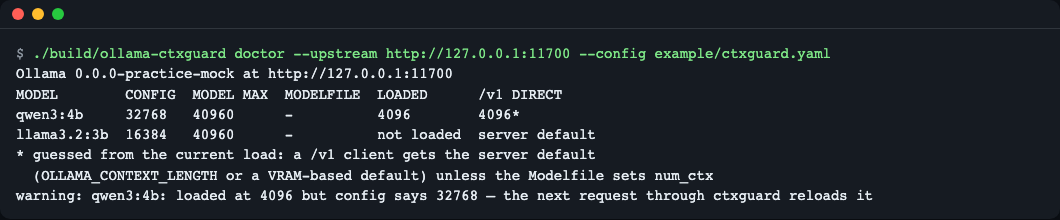
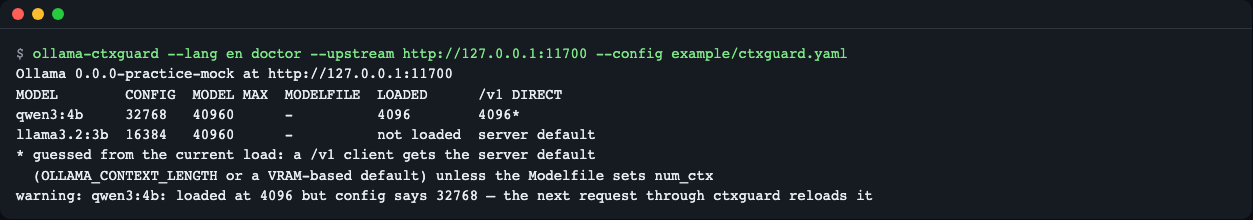
docs(readme): document screen language with per-language screenshots
Add language selection docs, Korean screenshots, a strict.yaml fix and
the 0.2.0 changelog entry. Scenario 3 now uses --log-format text.

diff --git a/README.ko.md b/README.ko.md
@@ -4,7 +4,7 @@
 
 Ollama 의 OpenAI 호환 주소(`/v1`)는 `num_ctx`(컨텍스트 창 크기)를 어디에 적어 보내도 무시하고, 프롬프트가 창보다 길면 앞부분을 **아무 표시 없이** 버립니다. `ollama-ctxguard` 는 앱과 Ollama 사이에 끼는 작은 프록시입니다. 앱 코드는 그대로 두고 `base_url` 만 바꾸면 모델별 `num_ctx` 가 실제로 적용되고, 잘림이 의심되면 응답마다 표시됩니다.
 
-![데모 실행 화면: /v1 직접 호출은 비밀 코드를 잃고, ctxguard 를 거치면 답한다](docs/images/01-hero.png)
+![데모 실행 화면: /v1 직접 호출은 비밀 코드를 잃고, ctxguard 를 거치면 답한다](docs/images/01-hero.ko.png)
 *연습용 목(mock) 모드의 `demo` 출력. 같은 요청을 /v1 로 직접 보내면 4096 으로 올라가 앞부분이 잘리고, ctxguard 를 거치면 16384 로 올라가 답이 맞습니다.*
 
 ## 이런 분께
@@ -34,25 +34,27 @@ dart compile exe bin/ollama_ctxguard.dart -o build/ollama-ctxguard
 가짜 Ollama 를 프로세스 안에 띄워 문제와 해결을 한 번에 보여 주는 `demo` 입니다. **연습용 목(mock) 모드**라서 실제 모델은 쓰지 않고 네트워크도 필요 없습니다.
 
 ```bash
-./build/ollama-ctxguard demo
+./build/ollama-ctxguard --lang ko demo
 ```
+
+`LANG` 이 `ko_*` 이면 `--lang` 없이도 한국어로 나옵니다. 아래 화면과 같게 보려면 `--lang ko` 로 고정하세요.
 
 ```text
-ollama-ctxguard demo — practice mock: a fake Ollama runs in this process, no real model is used
-prompt: 35495 bytes, "SECRET-CODE is 7731" at the very start; config: "qwen3:*": 16384
+ollama-ctxguard 데모 — 연습용 목 모드: 가짜 Ollama 가 이 프로세스 안에서 돌며 실제 모델은 쓰지 않습니다
+프롬프트: 35495 바이트, 맨 앞에 "SECRET-CODE is 7731"; 설정: "qwen3:*": 16384
 
-direct /v1    : num_ctx=4096 prompt_tokens=2050 verdict=truncated  answer: I don't see a secret code
-via ctxguard  : num_ctx=16384 prompt_tokens=5520 verdict=ok  answer: 7731
+직접 /v1      : num_ctx=4096 prompt_tokens=2050 verdict=truncated  답변: I don't see a secret code
+ctxguard 경유  : num_ctx=16384 prompt_tokens=5520 verdict=ok  답변: 7731
 
-what happened: /v1 ignored num_ctx, loaded the model at 4096 and silently kept only
-2050 prompt tokens (about half of 4096), so the code at the start was lost.
-ctxguard sent the same request to /api/chat with options.num_ctx=16384.
+무슨 일이 있었나: /v1 은 num_ctx 를 무시하고 모델을 4096 으로 로드했으며, 조용히
+프롬프트 토큰 2050 개만 남겼습니다 (4096 의 절반 정도). 그래서 맨 앞의 코드가 사라졌습니다.
+ctxguard 는 같은 요청을 options.num_ctx=16384 로 /api/chat 에 보냈습니다.
 
-proxy log line (no prompt text is logged):
-  {"ts":"2026-11-10T20:09:31.722969Z","method":"POST","path":"/v1/chat/completions","model":"qwen3:4b","stream":false,"status":200,"num_ctx":16384,"num_ctx_source":"config","prompt_tokens":5520,"est_prompt_tokens":5915,"verdict":"ok","ms":1}
+프록시 로그 한 줄 (프롬프트 본문은 기록하지 않습니다):
+  {"ts":"2026-11-12T15:21:29.267897Z","method":"POST","path":"/v1/chat/completions","model":"qwen3:4b","stream":false,"status":200,"num_ctx":16384,"num_ctx_source":"config","prompt_tokens":5520,"est_prompt_tokens":5915,"verdict":"ok","ms":2}
 ```
 
-(맨 아래 로그 줄의 `ts` 시각은 실행할 때마다 다릅니다.)
+(맨 아래 로그 줄의 `ts` 시각은 실행할 때마다 다릅니다. 이 로그 줄과 답변 문장은 번역되지 않고 영어 그대로 나옵니다. 화면 언어는 [화면 언어](#화면-언어-영어--한국어) 절을 보세요.)
 
 읽는 법: 앞부분에 "SECRET-CODE is 7731" 을 넣은 긴 프롬프트를 두 방법으로 보냈습니다. `/v1` 로 직접 보내면 모델이 4096 창으로 올라가 프롬프트를 절반쯤(2050 토큰)만 남겼고 답은 코드를 모릅니다. ctxguard 를 거치면 같은 요청이 네이티브 `/api/chat` 에 `options.num_ctx=16384` 로 전달되어 코드를 읽습니다. 목은 실제 Ollama 가 보인 동작(4096 에서 prompt_tokens 2050)을 규칙으로 재현한 것이고, 실제 모드는 모델 로드 때문에 첫 요청이 수십 초 걸릴 수 있습니다.
 
@@ -87,6 +89,21 @@ const client = new OpenAI({ baseURL: "http://127.0.0.1:11435/v1", apiKey: "ollam
 | `mock-upstream` | 연습용 가짜 Ollama 서버를 띄웁니다 | `ollama-ctxguard mock-upstream --port 11700` |
 
 `serve` 옵션: `--config`(기본 `./ctxguard.yaml`), `--upstream`, `--listen`, `--strict`, `--log-format json|text`, `--log-file`. 종료 코드는 0 정상, 2 설정 오류·업스트림 연결 실패, 64 인자 오류입니다.
+
+### 화면 언어 (영어 / 한국어)
+
+도움말, `serve` 시작·경고 줄, `doctor` 표와 경고, `demo` 설명, `mock-upstream` 안내, 오류 메시지를 영어 또는 한국어로 볼 수 있습니다. 언어는 아래 순서로 정하며, 한국어가 아니면 영어입니다.
+
+1. `--lang en|ko` (명령 앞뒤 어디든)
+2. 환경변수 `OLLAMA_CTXGUARD_LANG`
+3. `LC_ALL`, 그다음 `LC_MESSAGES`, 그다음 `LANG` (`ko_KR.UTF-8` 처럼 `ko` 로 시작하면 한국어)
+
+```bash
+ollama-ctxguard --lang ko doctor
+OLLAMA_CTXGUARD_LANG=ko ollama-ctxguard demo
+```
+
+스크립트가 깨지지 않도록 아래는 일부러 영어 그대로 둡니다: `doctor --json`(`warnings` 포함), 접근 로그, 프록시의 HTTP 응답 본문·헤더, `--version` 출력, 종료 코드, 데모의 프롬프트와 원시 로그 줄. 현지화된 문장 안에 들어가는 일부 원문도 그대로 둡니다: OS 가 준 오류 원문(예: `오류: 대기할 수 없습니다 (주소: …)` 뒤의 `Failed to create server socket (Can't assign requested address)`), YAML 파서 상세(예: `Expected node content.`), 번역 규칙에 없는 인자 오류의 원문(`인자 오류:` 접두 뒤에 영어), 데모의 데이터 라벨(`num_ctx=`, `prompt_tokens=`, `verdict=`)과 모델 답변 문장. 사람용 문구를 스크립트에서 비교한다면 `--lang en` 또는 `OLLAMA_CTXGUARD_LANG=en` 으로 고정하세요.
 
 ### 시나리오 1 — 응답에서 판정 보기 (비스트리밍)
 
@@ -142,8 +159,8 @@ data: [DONE]
 `--strict` 를 주면 `truncated` 판정을 오류로 바꿉니다(비스트리밍 422, 스트리밍은 `[DONE]` 직전 `error` 청크). 아래는 `"qwen3:*": 4096` 설정(`--strict`, 프록시는 다른 포트 `11736`)으로 `lorem ` 을 6000번 반복한 프롬프트를 보낸 실제 응답입니다. 따라 하려면 mock 업스트림(`11700`)을 띄운 채 다음을 실행하세요.
 
 ```bash
-printf '"qwen3:*": 4096\n' > strict.yaml
-ollama-ctxguard serve --config strict.yaml --upstream http://127.0.0.1:11700 --listen 127.0.0.1:11736 --strict
+printf 'models:\n  "qwen3:*": 4096\n' > strict.yaml
+ollama-ctxguard serve --config strict.yaml --upstream http://127.0.0.1:11700 --listen 127.0.0.1:11736 --strict --log-format text
 # 다른 터미널에서
 python3 -c 'import json; print(json.dumps({"model":"qwen3:4b","messages":[{"role":"user","content":"lorem "*6000}]}))' > big.json
 curl -si http://127.0.0.1:11736/v1/chat/completions -H 'content-type: application/json' -d @big.json
@@ -168,30 +185,30 @@ X-Ctxguard-Est-Prompt-Tokens: 6000
 ### 시나리오 4 — `doctor` 로 현재 상태 확인
 
 ```bash
-ollama-ctxguard doctor --upstream http://127.0.0.1:11700 --config example/ctxguard.yaml
+ollama-ctxguard --lang ko doctor --upstream http://127.0.0.1:11700 --config example/ctxguard.yaml
 ```
 
-![doctor 표: 설정 32768, 현재 로드 4096 경고](docs/images/02-doctor.png)
+![doctor 표: 설정 32768, 현재 로드 4096 경고](docs/images/02-doctor.ko.png)
 *`doctor` 출력. 목에 /v1 로 한 번 직접 요청해 4096 으로 올라간 뒤의 모습입니다.*
 
-텍스트로 옮기면 다음과 같습니다(목, 같은 상황).
+텍스트로 옮기면 다음과 같습니다(목, 같은 상황, `--lang ko`).
 
 ```text
-Ollama 0.0.0-practice-mock at http://127.0.0.1:11700
-MODEL        CONFIG  MODEL MAX  MODELFILE  LOADED      /v1 DIRECT
-qwen3:4b     32768   40960      -          4096        4096*
-llama3.2:3b  16384   40960      -          not loaded  server default
-* guessed from the current load: a /v1 client gets the server default
-  (OLLAMA_CONTEXT_LENGTH or a VRAM-based default) unless the Modelfile sets num_ctx
-warning: qwen3:4b: loaded at 4096 but config says 32768 — the next request through ctxguard reloads it
+Ollama 0.0.0-practice-mock 접속 주소: http://127.0.0.1:11700
+모델         설정   모델 최대  MODELFILE  로드됨      /v1 직접
+qwen3:4b     32768  40960      -          4096        4096*
+llama3.2:3b  16384  40960      -          로드 안 됨  서버 기본값
+* 현재 로드 크기로 추정한 값입니다: /v1 클라이언트는 서버 기본값을 받습니다
+  (OLLAMA_CONTEXT_LENGTH 또는 VRAM 기반 기본값). 단 Modelfile 에 num_ctx 가 있으면 그 값입니다
+경고: qwen3:4b: 로드된 크기와 설정이 다릅니다 (로드: 4096, 설정: 32768). ctxguard 를 거치는 다음 요청에서 다시 로드됩니다
 ```
 
-- `/v1 DIRECT` 열은 "ctxguard 없이 /v1 로 붙으면 받을 크기"입니다. Ollama 에 서버 기본값을 알려 주는 API 가 없어서 Modelfile 에 `num_ctx` 가 없으면 **현재 로드된 크기에서 추정**하고 `*` 를 붙입니다. 틀릴 수 있습니다.
-- 마지막 `warning` 은 "설정은 32768 인데 지금은 4096 으로 올라가 있어, 다음 요청 때 모델이 다시 올라간다"는 뜻입니다.
+- `/v1 직접` 열은 "ctxguard 없이 /v1 로 붙으면 받을 크기"입니다. Ollama 에 서버 기본값을 알려 주는 API 가 없어서 Modelfile 에 `num_ctx` 가 없으면 **현재 로드된 크기에서 추정**하고 `*` 를 붙입니다. 틀릴 수 있습니다.
+- 마지막 `경고` 줄은 "설정은 32768 인데 지금은 4096 으로 올라가 있어, 다음 요청 때 모델이 다시 올라간다"는 뜻입니다.
 - Ollama 에 연결할 수 없으면 오류와 종료 코드 2 로 끝납니다.
 
 ```text
-error: cannot reach Ollama at http://127.0.0.1:1 (is it running? set --upstream)
+오류: Ollama 에 연결할 수 없습니다 (주소: http://127.0.0.1:1). 실행 중인지 확인하고 --upstream 을 지정하세요
 ```
 
 ### 접근 로그 읽기
@@ -199,18 +216,18 @@ error: cannot reach Ollama at http://127.0.0.1:1 (is it running? set --upstream)
 `serve` 는 요청당 한 줄을 stderr 에 씁니다(`--log-file` 로 파일, `--log-format text` 로 사람이 읽기 쉬운 형식). 프롬프트·응답 본문과 `Authorization` 은 기록하지 않고, 정해 둔 필드만 남깁니다. 아래는 위 시나리오에서 얻은 실제 로그입니다.
 
 ```text
-ollama-ctxguard 0.1.0 listening on http://127.0.0.1:11735 -> upstream http://127.0.0.1:11700 (2 model rules, strict=false)
+ollama-ctxguard 0.2.0 시작 — 주소: http://127.0.0.1:11735, 업스트림: http://127.0.0.1:11700 (모델 규칙 2개, strict=false)
 {"ts":"2026-11-10T20:09:33.777875Z","method":"POST","path":"/v1/chat/completions","model":"qwen3:4b","stream":false,"status":200,"num_ctx":32768,"num_ctx_source":"config","prompt_tokens":6,"est_prompt_tokens":1,"verdict":"ok","ms":1}
 {"ts":"2026-11-10T20:09:33.796980Z","method":"POST","path":"/v1/chat/completions","model":"qwen3:4b","stream":true,"status":200,"num_ctx":32768,"num_ctx_source":"config","prompt_tokens":6,"est_prompt_tokens":1,"verdict":"ok","ms":1}
 {"ts":"2026-11-10T20:09:33.840871Z","method":"POST","path":"/v1/chat/completions","status":403,"ms":0,"event":"host_not_allowed"}
 {"ts":"2026-11-10T20:09:33.851702Z","method":"POST","path":"/v1/chat/completions","model":"qwen3:4b","stream":false,"status":403,"est_prompt_tokens":0,"ms":0,"event":"origin_rejected"}
-shutting down
+종료합니다
 ```
 
 ```text
-ollama-ctxguard 0.1.0 listening on http://127.0.0.1:11736 -> upstream http://127.0.0.1:11700 (1 model rules, strict=true)
+ollama-ctxguard 0.2.0 시작 — 주소: http://127.0.0.1:11736, 업스트림: http://127.0.0.1:11700 (모델 규칙 1개, strict=true)
 2026-11-10T20:10:25.256384Z WARN method=POST path=/v1/chat/completions model=qwen3:4b stream=false status=422 num_ctx=4096 num_ctx_source=config prompt_tokens=2050 est_prompt_tokens=6000 verdict=truncated reason=context_shift_signature ms=4 event=ctx_warning
-shutting down
+종료합니다
 ```
 
 판정이 `ok` 가 아니면 `event=ctx_warning` 이 붙습니다. 그 밖의 `event` 는 `host_not_allowed`(허용되지 않은 Host, 403)와 `origin_rejected`(Ollama 가 브라우저 Origin 을 거부, 403)입니다. 두 경우 공격자가 보낸 Host·Origin 값은 로그에 쓰지 않습니다. 텍스트 형식에서 공백·`=`·따옴표가 든 값은 `model="x verdict=ok"` 처럼 따옴표로 감싸 가짜 필드가 생기지 않게 합니다.
@@ -289,16 +306,17 @@ flowchart LR
 
 | 증상 | 원인 | 해결 |
 |---|---|---|
-| `cannot listen on 127.0.0.1:11434 … try --port` (목) | 실제 Ollama 가 이미 11434 를 사용 중 | `mock-upstream --port 11700` 처럼 다른 포트 |
-| `error: cannot reach Ollama at …` (종료 코드 2) | Ollama 가 꺼져 있거나 `--upstream` 주소가 틀림 | Ollama 실행 확인, `--upstream` 지정 |
-| `error: cannot listen on 127.0.0.1:11435: port already in use …` | 다른 ctxguard 가 아직 떠 있거나 포트가 사용 중 | `--listen 127.0.0.1:<다른 포트>` |
+| `오류: 대기할 수 없습니다 (주소: 127.0.0.1:11434): 포트가 이미 사용 중입니다 …` (목, `--lang en`: `cannot listen on 127.0.0.1:11434 … try --port`) | 실제 Ollama 가 이미 11434 를 사용 중 | `mock-upstream --port 11700` 처럼 다른 포트 |
+| `오류: Ollama 에 연결할 수 없습니다 …` (종료 코드 2, `--lang en`: `error: cannot reach Ollama at …`) | Ollama 가 꺼져 있거나 `--upstream` 주소가 틀림 | Ollama 실행 확인, `--upstream` 지정 |
+| `오류: 대기할 수 없습니다 (주소: 127.0.0.1:11435): 포트가 이미 사용 중입니다 …` (`--lang en`: `error: cannot listen on 127.0.0.1:11435: port already in use …`) | 다른 ctxguard 가 아직 떠 있거나 포트가 사용 중 | `--listen 127.0.0.1:<다른 포트>` |
+| `오류: 알 수 없는 하위 명령입니다: "frob"` 와 사용법 (종료 코드 64, `--lang en`: `error: Could not find a command named "frob".`) | 명령 이름 오타 | 사용법에서 `serve`·`doctor`·`demo`·`mock-upstream` 중 고름 |
 | 403 `host_not_allowed` | 요청의 Host 가 localhost·이 PC 이름·사설 IP 가 아님 | 주소를 `127.0.0.1`·`localhost` 로 바꿈 |
 | 403 `upstream returned HTTP 403 … Origin` | 브라우저 Origin 을 Ollama 가 거부 | Ollama 서버에 `OLLAMA_ORIGINS` 로 허용 |
 | `dart compile exe` 가 출력 폴더 오류를 냄 | `build` 폴더가 없음 | `mkdir -p build` 후 다시 컴파일 |
 | 판정이 계속 `unknown` | Ollama 응답에 `prompt_eval_count` 가 없거나 적용 크기를 모름 | 로그의 `reason` 확인, `doctor` 로 모델·로드 크기 확인 |
 | 모델을 바꿀 때마다 느려짐 | 같은 모델에 다른 `num_ctx` 가 들어와 Ollama 가 다시 올림 | 모델당 값 하나만 쓰고, 클라이언트가 보내는 네이티브 `num_ctx` 와 설정이 다르면 로그의 `num_ctx_request_override` 확인 |
 | 첫 요청이 수십 초 걸림 | 실제 모드의 모델 로드(큰 `num_ctx` 는 더 오래) | 정상입니다. 시간 제한은 `upstream_timeout_seconds` |
-| `doctor` 의 `/v1 DIRECT` 값이 이상함 | Modelfile 값이 없어 현재 로드 크기로 추정한 값 | `*` 표시 각주 참고, 추정임 |
+| `doctor` 의 `/v1 직접` 값이 이상함 | Modelfile 값이 없어 현재 로드 크기로 추정한 값 | `*` 표시 각주 참고, 추정임 |
 
 ## 개발·기여
 
@@ -309,7 +327,7 @@ dart analyze --fatal-infos
 dart test
 ```
 
-`dart test` 는 120개 시험이 모두 통과합니다(약 2초, 가짜 Ollama 로 127.0.0.1 안에서만 실행, 실제 Ollama·외부 네트워크 불필요). 실제 Ollama 로 동작을 확인하는 선택 도구는 `dart run tool/real_ollama_check.dart` 입니다.
+`dart test` 는 145개 시험이 모두 통과합니다(약 2초, 가짜 Ollama 로 127.0.0.1 안에서만 실행, 실제 Ollama·외부 네트워크 불필요). 실제 Ollama 로 동작을 확인하는 선택 도구는 `dart run tool/real_ollama_check.dart` 입니다.
 
 버그·제안은 이슈로 남겨 주세요. 변경 기록은 [CHANGELOG.md](CHANGELOG.md).
 

diff --git a/README.md b/README.md
@@ -34,8 +34,10 @@ dart compile exe bin/ollama_ctxguard.dart -o build/ollama-ctxguard
 `demo` starts a fake Ollama inside the process and shows the problem and the fix in one go. It is **practice mock mode**, so no real model is used and no network is needed.
 
 ```bash
-./build/ollama-ctxguard demo
+./build/ollama-ctxguard --lang en demo
 ```
+
+If `LANG` is `ko_*`, a command without `--lang` prints Korean, so `--lang en` pins the screen below.
 
 ```text
 ollama-ctxguard demo — practice mock: a fake Ollama runs in this process, no real model is used
@@ -87,6 +89,21 @@ Ollama behind a reverse proxy with a path prefix, like `--upstream http://host/o
 | `mock-upstream` | Starts a practice fake Ollama server | `ollama-ctxguard mock-upstream --port 11700` |
 
 `serve` options: `--config` (default `./ctxguard.yaml`), `--upstream`, `--listen`, `--strict`, `--log-format json|text`, `--log-file`. Exit codes are 0 normal, 2 configuration error or upstream connection failure, 64 argument error.
+
+### Screen language (English / Korean)
+
+Help, `serve` start and warning lines, the `doctor` table and warnings, the `demo` explanation, `mock-upstream` notes and error messages come in English or Korean. The language is chosen in this order, and anything that is not Korean is English:
+
+1. `--lang en|ko` (before or after the command)
+2. the `OLLAMA_CTXGUARD_LANG` environment variable
+3. `LC_ALL`, then `LC_MESSAGES`, then `LANG` (a value starting with `ko`, such as `ko_KR.UTF-8`, means Korean)
+
+```bash
+ollama-ctxguard --lang ko doctor
+OLLAMA_CTXGUARD_LANG=ko ollama-ctxguard demo
+```
+
+These stay in English on purpose so scripts keep working: `doctor --json` (including `warnings`), the access log, HTTP response bodies and headers from the proxy, the `--version` output, exit codes, and the demo's prompt and raw log lines. Some text inside a localized sentence is also left as it is: the original message of the OS (for example `Failed to create server socket (Can't assign requested address)` after `error: cannot listen on …`), the YAML parser detail (for example `Expected node content.`), the original text of a command-line argument error the translation rules do not cover (it follows the prefix `인자 오류:` in Korean), and the demo's data labels (`num_ctx=`, `prompt_tokens=`, `verdict=`) and the model's answer sentence. If you compare human-readable text in a script, pin it with `--lang en` or `OLLAMA_CTXGUARD_LANG=en`.
 
 ### Scenario 1 — See the verdict in the response (non-streaming)
 
@@ -142,8 +159,8 @@ data: [DONE]
 With `--strict`, a `truncated` verdict is turned into an error (422 for non-streaming; for streaming, an `error` chunk right before `[DONE]`). Below is the real response from sending a prompt that repeats `lorem ` 6000 times with the `"qwen3:*": 4096` setting (`--strict`, the proxy on a different port `11736`). To follow along, run the following with the mock upstream (`11700`) up.
 
 ```bash
-printf '"qwen3:*": 4096\n' > strict.yaml
-ollama-ctxguard serve --config strict.yaml --upstream http://127.0.0.1:11700 --listen 127.0.0.1:11736 --strict
+printf 'models:\n  "qwen3:*": 4096\n' > strict.yaml
+ollama-ctxguard serve --config strict.yaml --upstream http://127.0.0.1:11700 --listen 127.0.0.1:11736 --strict --log-format text
 # in another terminal
 python3 -c 'import json; print(json.dumps({"model":"qwen3:4b","messages":[{"role":"user","content":"lorem "*6000}]}))' > big.json
 curl -si http://127.0.0.1:11736/v1/chat/completions -H 'content-type: application/json' -d @big.json
@@ -168,7 +185,7 @@ X-Ctxguard-Est-Prompt-Tokens: 6000
 ### Scenario 4 — Check the current state with `doctor`
 
 ```bash
-ollama-ctxguard doctor --upstream http://127.0.0.1:11700 --config example/ctxguard.yaml
+ollama-ctxguard --lang en doctor --upstream http://127.0.0.1:11700 --config example/ctxguard.yaml
 ```
 
 ![doctor table: config 32768, a warning that it is currently loaded at 4096](docs/images/02-doctor.png)
@@ -199,7 +216,7 @@ error: cannot reach Ollama at http://127.0.0.1:1 (is it running? set --upstream)
 `serve` writes one line per request to stderr (to a file with `--log-file`, in a human-friendly format with `--log-format text`). It does not record the prompt, the response body or `Authorization`, and leaves only fixed fields. Below is the real log obtained from the scenarios above.
 
 ```text
-ollama-ctxguard 0.1.0 listening on http://127.0.0.1:11735 -> upstream http://127.0.0.1:11700 (2 model rules, strict=false)
+ollama-ctxguard 0.2.0 listening on http://127.0.0.1:11735 -> upstream http://127.0.0.1:11700 (2 model rules, strict=false)
 {"ts":"2026-11-10T20:09:33.777875Z","method":"POST","path":"/v1/chat/completions","model":"qwen3:4b","stream":false,"status":200,"num_ctx":32768,"num_ctx_source":"config","prompt_tokens":6,"est_prompt_tokens":1,"verdict":"ok","ms":1}
 {"ts":"2026-11-10T20:09:33.796980Z","method":"POST","path":"/v1/chat/completions","model":"qwen3:4b","stream":true,"status":200,"num_ctx":32768,"num_ctx_source":"config","prompt_tokens":6,"est_prompt_tokens":1,"verdict":"ok","ms":1}
 {"ts":"2026-11-10T20:09:33.840871Z","method":"POST","path":"/v1/chat/completions","status":403,"ms":0,"event":"host_not_allowed"}
@@ -208,7 +225,7 @@ shutting down
 ```
 
 ```text
-ollama-ctxguard 0.1.0 listening on http://127.0.0.1:11736 -> upstream http://127.0.0.1:11700 (1 model rules, strict=true)
+ollama-ctxguard 0.2.0 listening on http://127.0.0.1:11736 -> upstream http://127.0.0.1:11700 (1 model rules, strict=true)
 2026-11-10T20:10:25.256384Z WARN method=POST path=/v1/chat/completions model=qwen3:4b stream=false status=422 num_ctx=4096 num_ctx_source=config prompt_tokens=2050 est_prompt_tokens=6000 verdict=truncated reason=context_shift_signature ms=4 event=ctx_warning
 shutting down
 ```
@@ -292,6 +309,7 @@ flowchart LR
 | `cannot listen on 127.0.0.1:11434 … try --port` (mock) | A real Ollama is already using 11434 | Use another port, as in `mock-upstream --port 11700` |
 | `error: cannot reach Ollama at …` (exit code 2) | Ollama is off or the `--upstream` address is wrong | Check that Ollama is running, specify `--upstream` |
 | `error: cannot listen on 127.0.0.1:11435: port already in use …` | Another ctxguard is still running or the port is in use | `--listen 127.0.0.1:<another port>` |
+| `error: Could not find a command named "frob".` followed by the usage (exit code 64) | The command name is misspelled | Pick one of `serve`, `doctor`, `demo`, `mock-upstream` from the usage. With `--lang ko` the line is `오류: 알 수 없는 하위 명령입니다: "frob"` |
 | 403 `host_not_allowed` | The request's Host is not localhost, this PC's name or a private IP | Change the address to `127.0.0.1` or `localhost` |
 | 403 `upstream returned HTTP 403 … Origin` | Ollama rejected the browser Origin | Allow it on the Ollama server with `OLLAMA_ORIGINS` |
 | `dart compile exe` gives an output folder error | The `build` folder doesn't exist | Run `mkdir -p build` and compile again |
@@ -309,7 +327,7 @@ dart analyze --fatal-infos
 dart test
 ```
 
-All 120 tests of `dart test` pass (about 2 seconds, run only inside 127.0.0.1 with a fake Ollama, no real Ollama or external network needed). The optional tool for checking the behavior against a real Ollama is `dart run tool/real_ollama_check.dart`.
+All 145 tests of `dart test` pass (about 2 seconds, run only inside 127.0.0.1 with a fake Ollama, no real Ollama or external network needed). The optional tool for checking the behavior against a real Ollama is `dart run tool/real_ollama_check.dart`.
 
 Please leave bugs and suggestions as issues. For the change log, see [CHANGELOG.md](CHANGELOG.md).
 

diff --git a/CHANGELOG.md b/CHANGELOG.md
@@ -1,5 +1,26 @@
 # Changelog
 
+## 0.2.0
+
+### Added
+
+- Screen language: help, `serve` start/warning/shutdown lines, the `doctor` table and warnings, the `demo` explanation, `mock-upstream` notes and error messages are available in English and Korean.
+  - Choose with `--lang en|ko` (before or after the command), then `OLLAMA_CTXGUARD_LANG`, then `LC_ALL` / `LC_MESSAGES` / `LANG`. Anything that is not Korean is English. An invalid `--lang` value exits with 64.
+  - `package:args` parse errors (unknown option, missing value, value not allowed) are translated too.
+  - A config file that is not valid UTF-8 (or cannot be read) now gives a localized config error with exit code 2 instead of an unhandled exception (exit 255).
+  - `ConfigException` gained `code` and `params`; its `message` and `toString()` stay English. `runDoctor` and `runDemo` gained an optional `lang` argument (default English).
+
+- An unknown command (for example `ollama-ctxguard frob`) now prints a localized `error:` line before the usage, like unknown options do. Exit code stays 64.
+
+### Fixed
+
+- README scenario 3: the `strict.yaml` example now puts the model rule under `models:`, so `serve` accepts it. `example/ctxguard.yaml` comments are English with Korean alongside.
+
+### Unchanged on purpose
+
+- Exit codes, `--version`, `doctor --json` (warnings included), the access log, HTTP response bodies and headers, and the demo prompt and raw log lines stay English. Pin the human-readable text with `--lang en` or `OLLAMA_CTXGUARD_LANG=en` if a script compares it.
+- Text inside a localized sentence stays as is: OS error originals, YAML parser details, the original text of unrecognized argument errors (after `인자 오류:`), the demo's data labels (`num_ctx=` …) and the model's answer sentence.
+
 ## 0.1.0
 
 - `serve`: local proxy in front of Ollama.
